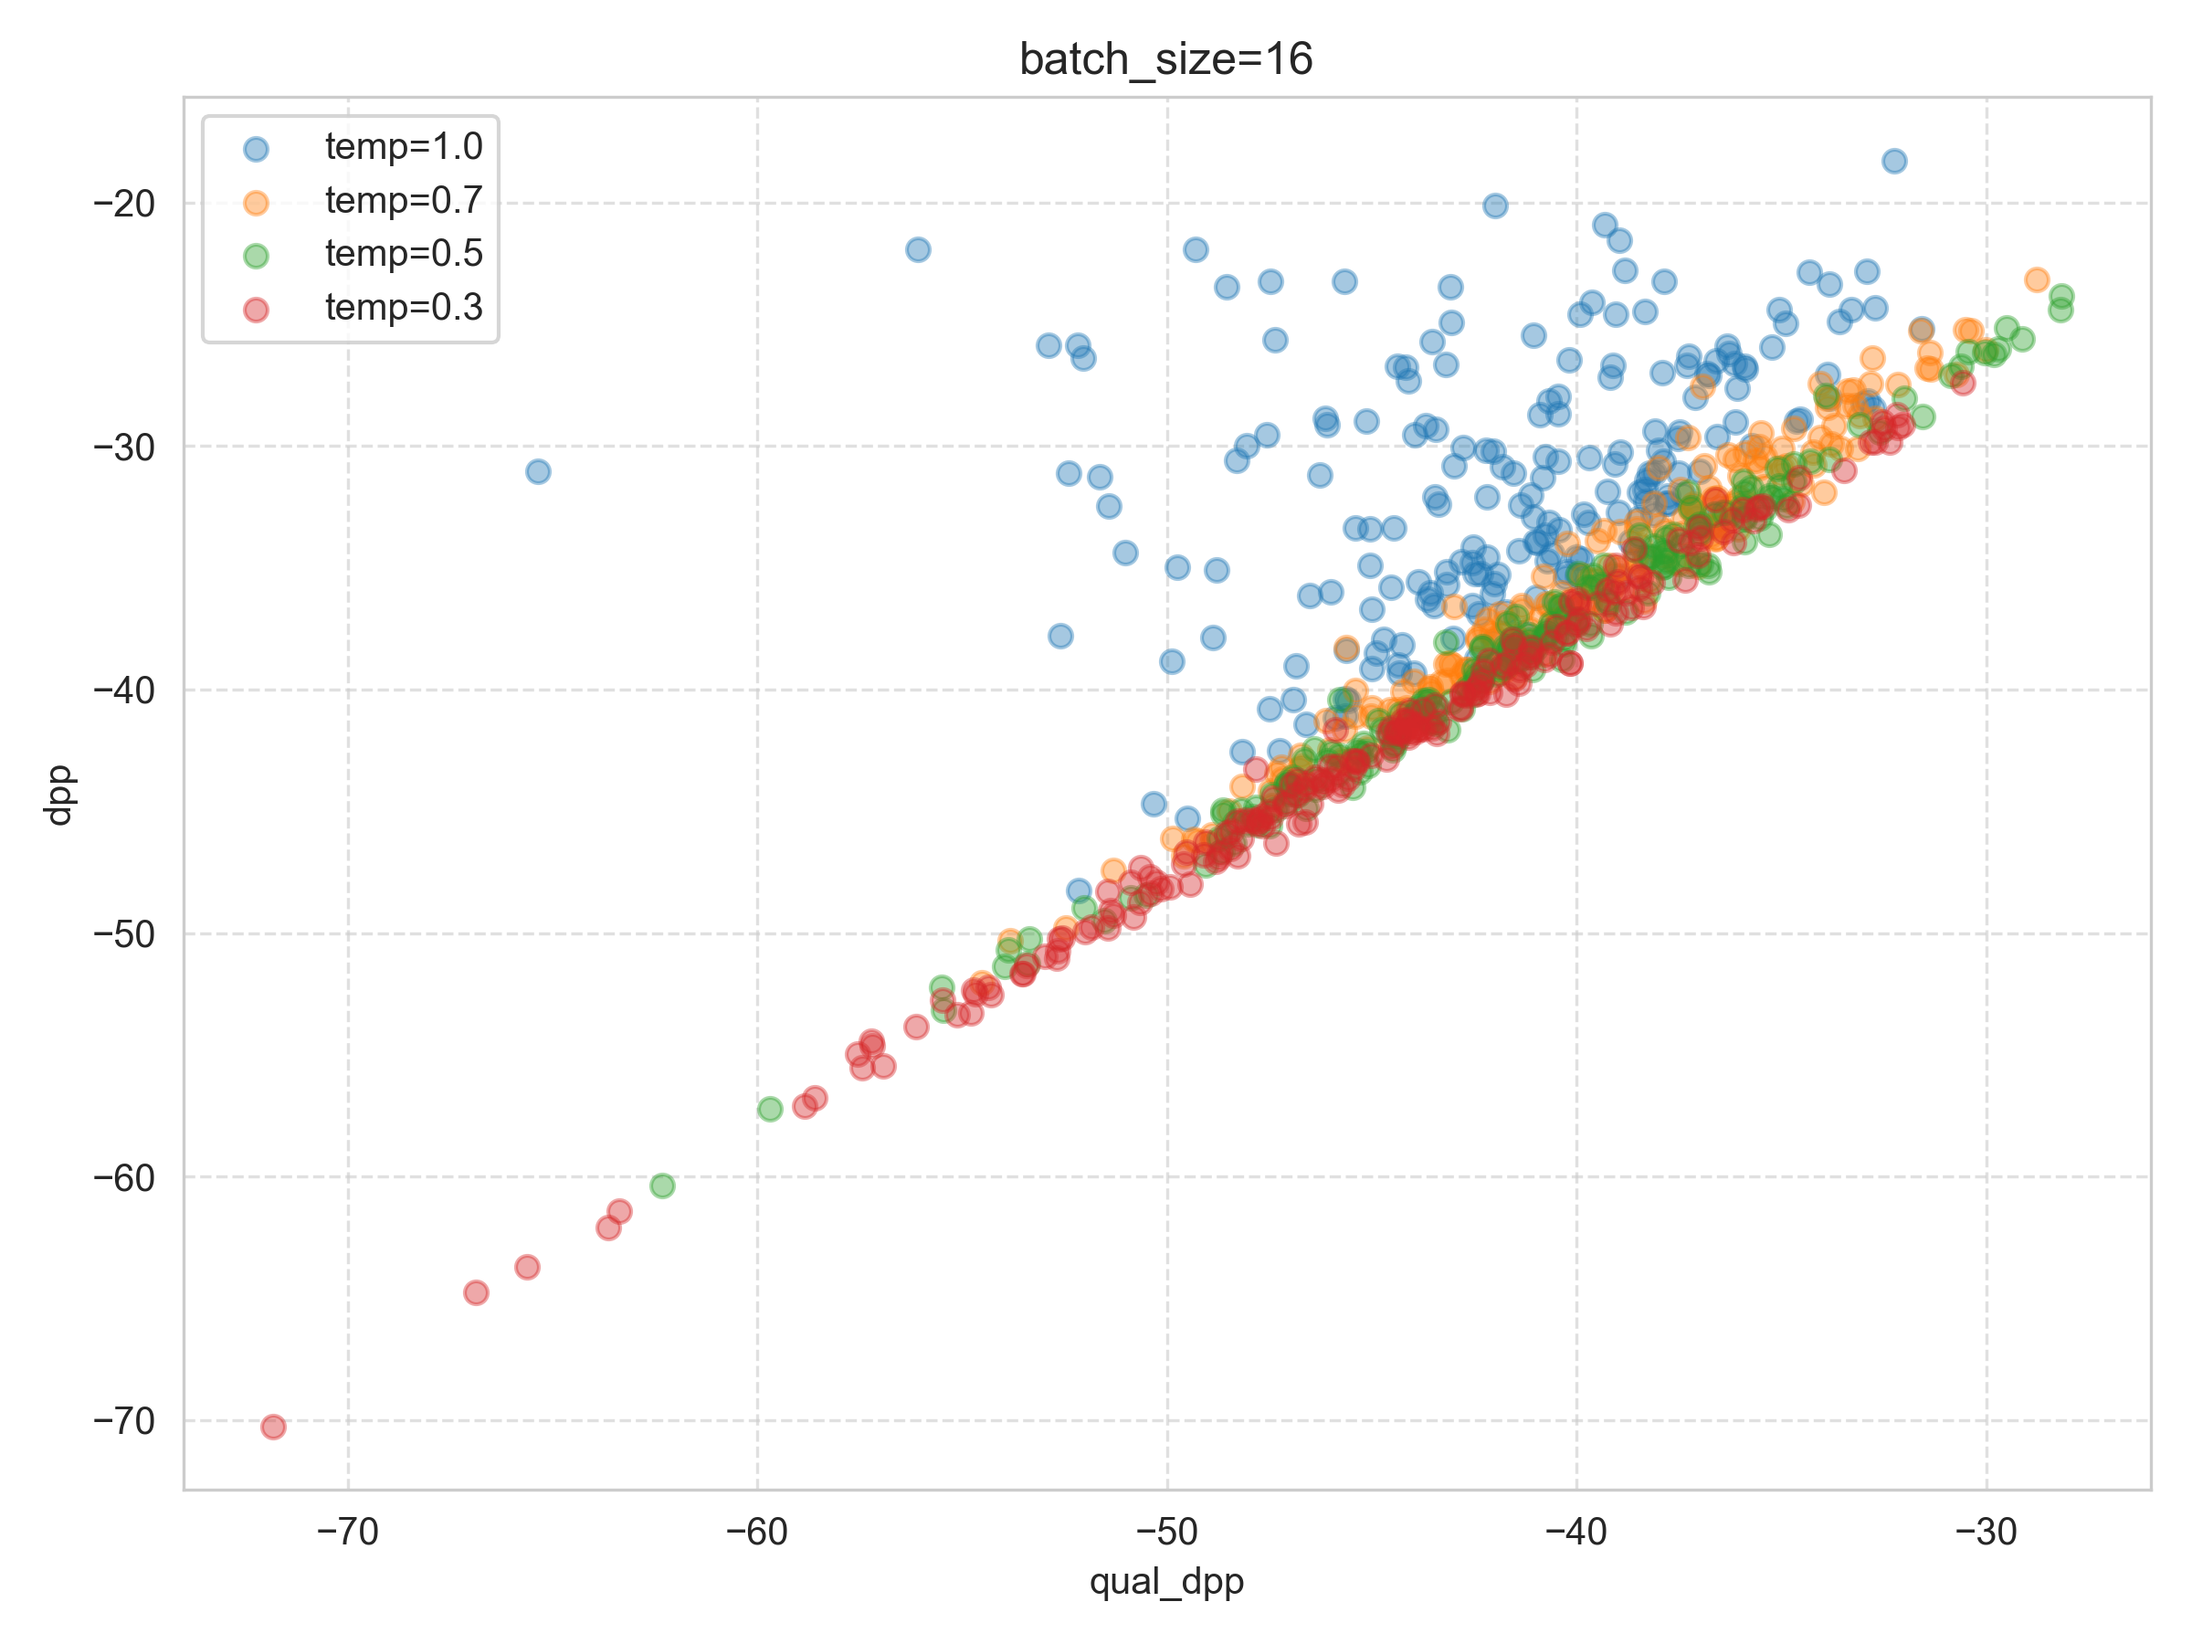
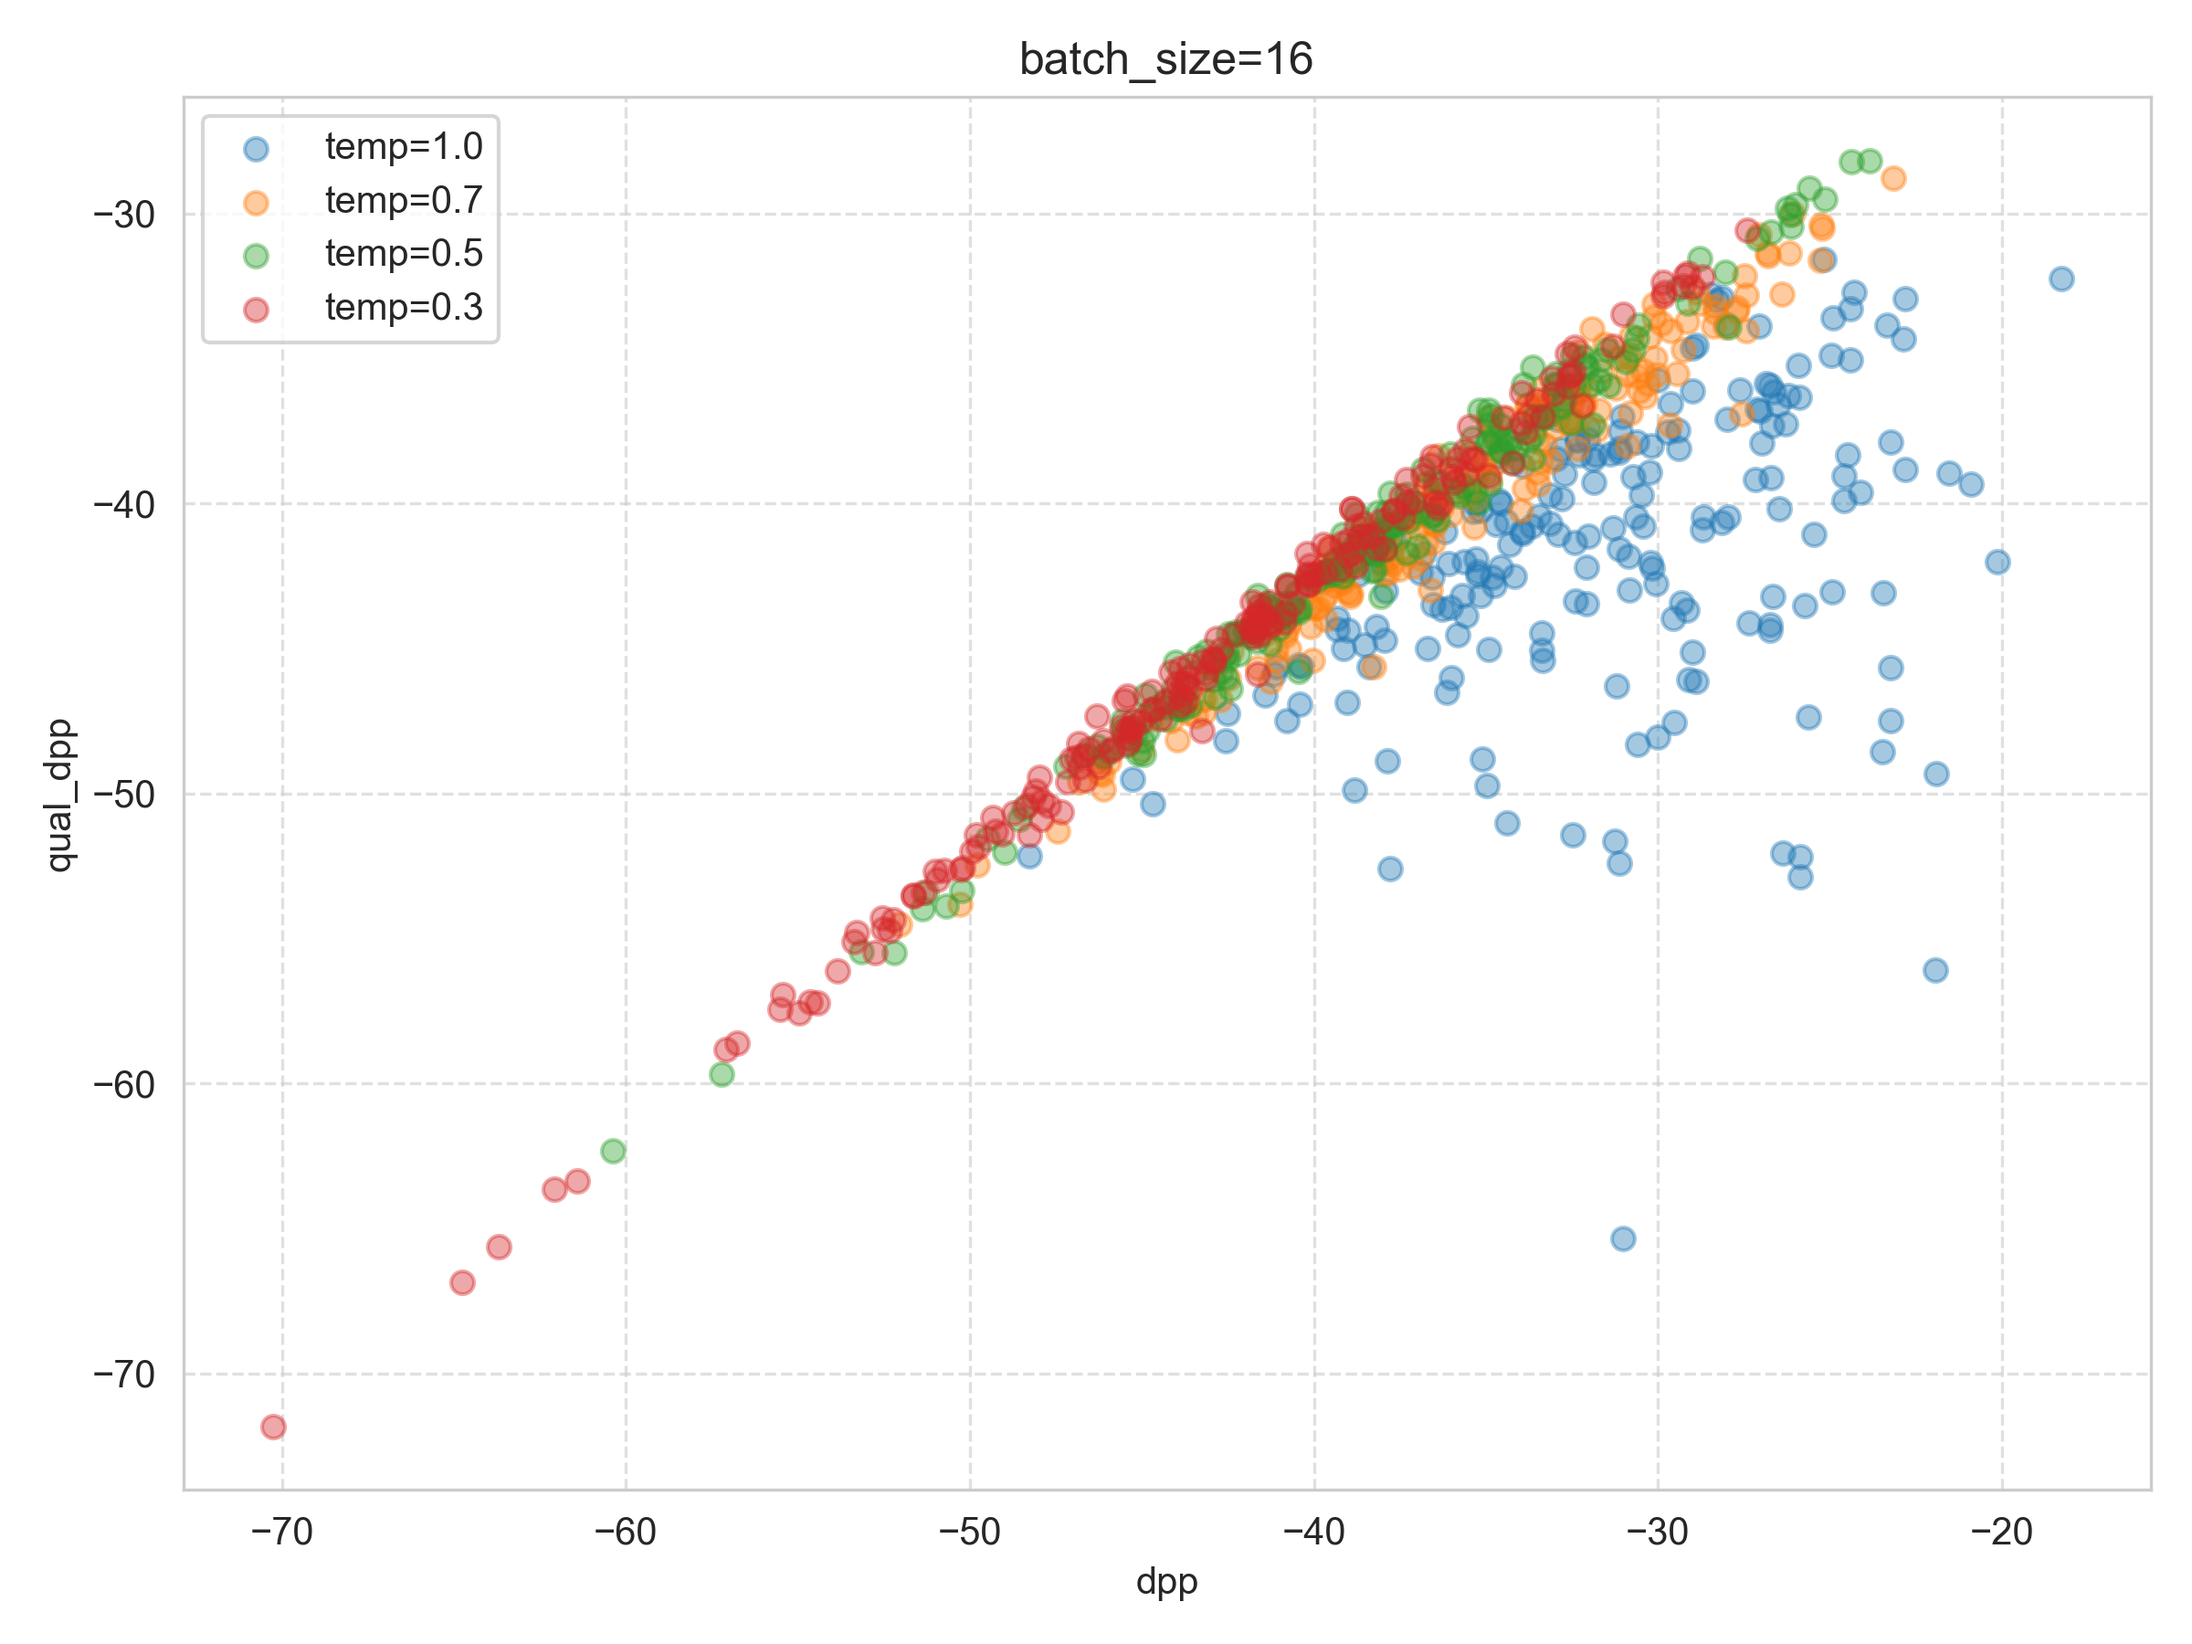
flip axes

diff --git a/repl/prelim.py b/repl/prelim.py
@@ -83,9 +83,9 @@ for sample_size in [4, 8, 16, 32]:
         for temp in [1.0, 0.7, 0.5, 0.3]:
             df_temp = df_filtered_by_size[df_filtered_by_size['temp'] == temp]
             df_deduped = df_temp.drop_duplicates(subset=['problem_id'], keep='first')
-            ax.scatter(df_deduped['qual_dpp'], df_deduped[y_col], alpha=0.4, label=f'temp={temp}')
-        ax.set_xlabel('qual_dpp')
-        ax.set_ylabel(f'{y_col}')
+            ax.scatter(df_deduped[y_col], df_deduped['qual_dpp'], alpha=0.4, label=f'temp={temp}')
+        ax.set_xlabel(f'{y_col}')
+        ax.set_ylabel('qual_dpp')
         ax.set_title(f'batch_size={sample_size}')
         ax.legend()
         ax.grid(True, linestyle='--', alpha=0.6)
